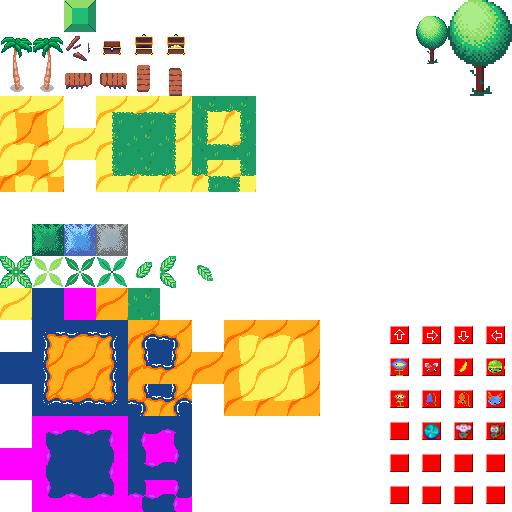
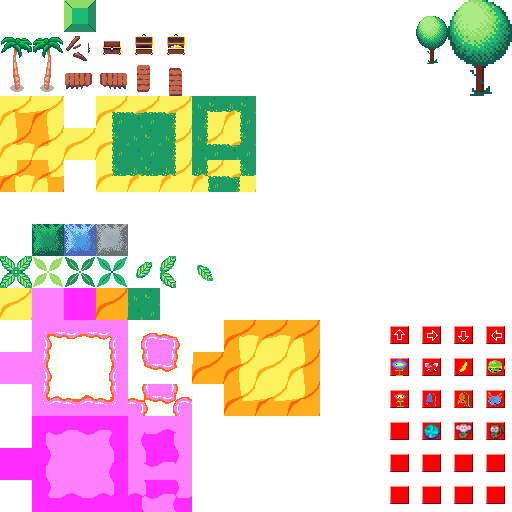
Experimenting with water shader

Changed region(s): [[0.0, 0.5625, 0.375, 1.0]]

diff --git a/src/game.cpp b/src/game.cpp
@@ -24,7 +24,6 @@ private:
 	Player *player[2];
 	PlayerState ps[2];
 	std::shared_ptr<View> view[2]; // a view for each player
-	std::unique_ptr<IrisEffect> iris;
 	ALLEGRO_BITMAP *preProcessing = nullptr;
 
 	int gameTimer;
@@ -106,17 +105,10 @@ GameImpl::~GameImpl()
 	}
 }
 
-void GameImpl::draw (const GraphicsContext &gc2)
+void GameImpl::draw (const GraphicsContext &gc)
 {
-	GraphicsContext gc {};
-	gc.buffer = preProcessing;
-	gc.xofst = gc2.xofst;
-	gc.yofst = gc2.yofst;
-
 	al_set_target_bitmap(gc.buffer);
 	al_clear_to_color(LIGHT_BLUE);
-	//~ teg_draw (buffer, level, 0, camera_x, 0);
-	//~ objects.draw(buffer, camera_x, 0);
 
 	al_draw_bitmap(chart->getBitmap(), 0, 0, 0);
 
@@ -140,14 +132,8 @@ void GameImpl::draw (const GraphicsContext &gc2)
 
 	messages->draw(gc);
 
-
-
-
-	al_set_target_bitmap(gc2.buffer);
-	int counter = MainLoop::getMainLoop()->getMsecCounter();
-	iris->enable(counter / 1000.0f, gc.buffer);
-	al_draw_filled_rectangle(0, 0, MAIN_WIDTH, MAIN_HEIGHT, BLACK);
-	iris->disable();
+//	al_set_target_bitmap(gc2.buffer);
+//	al_draw_filled_rectangle(0, 0, MAIN_WIDTH, MAIN_HEIGHT, BLACK);
 }
 
 void GameImpl::update()
@@ -249,8 +235,6 @@ void GameImpl::initGame ()
 
 	monsterHp = defaultMonsterHp;
 	initLevel();
-
-	iris = make_unique<IrisEffect>();
 }
 
 Player * initPlayer(PlayerState *ps, Room *room, int i) {

diff --git a/src/view.cpp b/src/view.cpp
@@ -1,6 +1,9 @@
-#include <assert.h>
+#include <cassert>
 #include "view.h"
 #include "game.h"
+#include "mainloop.h"
+
+using namespace std;
 
 void View::init (int numPlayers, int player, int pw, int ph)
 {
@@ -23,6 +26,8 @@ void View::init (int numPlayers, int player, int pw, int ph)
 	h = defaults[i][3];
 	status_x = defaults[i][4];
 	status_y = defaults[i][5];
+
+	iris = make_unique<IrisEffect>();
 }
 
 void View::update() {
@@ -39,9 +44,17 @@ void View::draw(const GraphicsContext &gc) {
 	teg_partdraw (map, 0,
 			x, y, w, h,
 			camera_x - x, camera_y - y);
+
+	int counter = MainLoop::getMainLoop()->getMsecCounter();
+	iris->enable((float)counter / 1000.0f, gc.buffer);
 	teg_partdraw (map, 1,
 			x, y, w, h,
 			camera_x - x, camera_y - y);
+	iris->disable();
+
+	teg_partdraw (map, 2,
+				  x, y, w, h,
+				  camera_x - x, camera_y - y);
 	GraphicsContext gc2;
 	gc2.buffer = gc.buffer;
 	gc2.xofst = camera_x - x;

diff --git a/src/level.cpp b/src/level.cpp
@@ -87,10 +87,7 @@ RoomSet *RoomSet::init (shared_ptr<Resources> res) {
 	RoomSet *result = new RoomSet();
 	
 	vector<string> roomNames {
-		"map1", "map1", "map1", "map1",
-		"map1", "map1", "map1", "map1",
-		"map1", "map1", "map1", "map1",
-		"map1", "map1", "map1", "map1",
+		"map1"
 	};
 
 	for (string name : roomNames) {
@@ -100,11 +97,13 @@ RoomSet *RoomSet::init (shared_ptr<Resources> res) {
 		ri.name = name;
 		int playerInitialisation = 0;
 
+		assert(ri.map->dl == LAYER_NUM);
+
 		for (int x = 0; x < ri.map->w; ++x)
 			for (int y = 0; y < ri.map->h; ++y)
 			{
 				// get object data from layer 2.
-				int tile = teg_mapget(ri.map, 2, x, y);
+				int tile = teg_mapget(ri.map, OBJECT_LAYER, x, y);
 				int flag = ri.map->tilelist->tiles[tile].flags;
 
 				if (tile >= 0 && flag >= 100)

diff --git a/src/irisshader.cpp b/src/irisshader.cpp
@@ -20,7 +20,9 @@ IrisEffect::IrisEffect()
 	if (!ok) printf ("al_attach_shader_source failed: %s\n", al_get_shader_log(shader));
 	assert(ok);
 
-	ok = al_attach_shader_source(shader, ALLEGRO_VERTEX_SHADER, vertShaderSource.c_str());
+	ok = al_attach_shader_source(shader, ALLEGRO_VERTEX_SHADER,
+								 al_get_default_shader_source(ALLEGRO_SHADER_AUTO, ALLEGRO_VERTEX_SHADER));
+//	ok = al_attach_shader_source(shader, ALLEGRO_VERTEX_SHADER, vertShaderSource.c_str());
 
 	//TODO: assert with message format...
 	if (!ok) printf ("al_attach_shader_source failed: %s\n", al_get_shader_log(shader));

diff --git a/include/view.h b/include/view.h
@@ -1,9 +1,9 @@
-#ifndef VIEW_H
-#define VIEW_H
+#pragma once
 
 #include "tegel5.h"
 #include "player.h"
 #include "component.h"
+#include "irisshader.h"
 
 class Game;
 
@@ -11,7 +11,7 @@ class View : public Component
 {
 	private:
 		int camera_x, camera_y;
-
+		std::unique_ptr<IrisEffect> iris;
 	public:
 		View(Game *parent) : parent(parent) {}
 		void init (int numPlayers, int player, int pw, int ph);
@@ -23,5 +23,3 @@ class View : public Component
 		virtual void draw(const GraphicsContext &gc) override;
 		virtual void update() override;
 };
-
-#endif

diff --git a/src/engine.cpp b/src/engine.cpp
@@ -101,10 +101,7 @@ public:
 			resources->addStream("Flower_field", "data/music/Flower_field.ogg");
 
 			vector<string> levels = {
-					"map1", "map1", "map1", "map1",
-					"map1", "map1", "map1", "map1",
-					"map1", "map1", "map1", "map1",
-					"map1", "map1", "map1", "map1",
+					"map1"
 			};
 			//TODO: store tileset reference in map itself.
 			for (auto key : levels) {

diff --git a/include/level.h b/include/level.h
@@ -17,6 +17,10 @@ const int TILE_SIZE = 32;
 const int ROOM_WIDTH = 16;
 const int ROOM_HEIGHT = 16;
 
+const int LAYER_NUM = 4;
+const int FX_LAYER = 2;
+const int OBJECT_LAYER = 3;
+
 int tileStackFlags(TEG_MAP *map, int mx, int my);
 
 enum RoomFlags {
